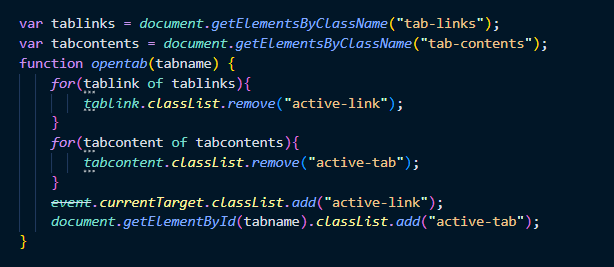
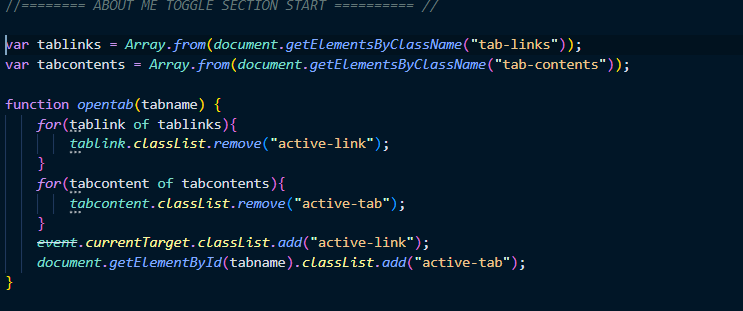
Updated one image for reviews

Changed region(s): [[0.0, 0.0599, 0.8974, 0.9288], [0.0, 0.0, 0.5879, 0.03]]

diff --git a/README.md b/README.md
@@ -164,7 +164,7 @@ Here are 3 event listeners and if you just open app.js you can see every functio
 ![js2](reviewImages/js2.2.png)
 
 ### 3/5 Use of arrays, objects, and functions.
-In the function opentab, tablinks and tabcontents are arrays of elements selected by their class names.
+In the function opentab, tablinks and tabcontents are arrays.
 
 ![js3](reviewImages/js3.png)
 
